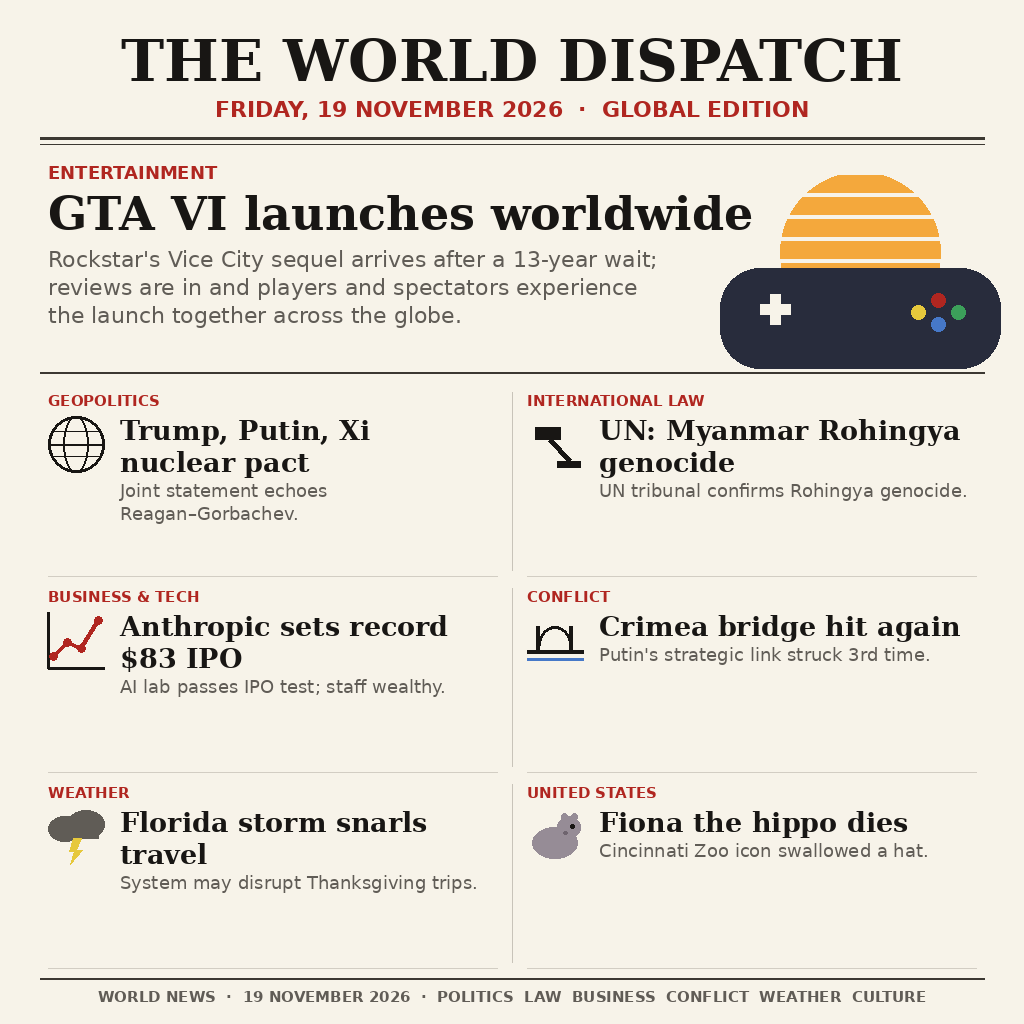
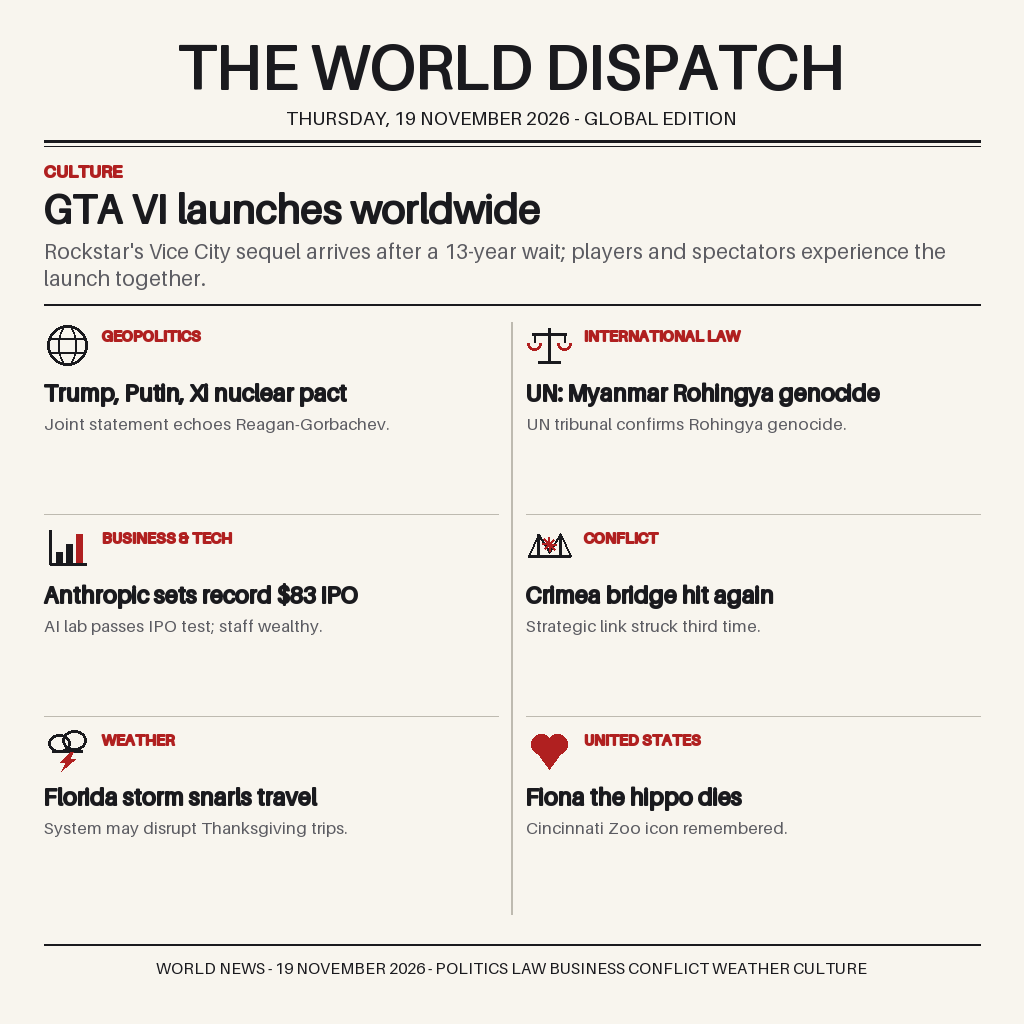
World Dispatch: 19 November 2026 news image (Thursday fix)

diff --git a/main.ts b/main.ts
@@ -1,37 +1,30 @@
-// World Dispatch — 19 November 2026 news image entry.
-// Copies entry.png (next to this script) into $MAKEFUN_OUTPUT_DIR (default /output).
-// Node 22, no dependencies. Deterministic: no network, identical output every run.
+// World Dispatch — 19 November 2026 (Thursday) news image entry.
+// Copies entry.png from this script's directory into MAKEFUN_OUTPUT_DIR
+// (default /output), creating it if needed, then verifies the copy is
+// byte-identical to the source. Node 22, zero dependencies, no network.
 
-import { copyFileSync, mkdirSync, readFileSync, statSync } from "node:fs";
+import { copyFileSync, mkdirSync, readFileSync } from "node:fs";
 import { dirname, join } from "node:path";
 import { fileURLToPath } from "node:url";
 
-const scriptDir = dirname(fileURLToPath(import.meta.url));
-const source = join(scriptDir, "entry.png");
+const here = dirname(fileURLToPath(import.meta.url));
+const src = join(here, "entry.png");
 const outDir = process.env.MAKEFUN_OUTPUT_DIR ?? "/output";
-const dest = join(outDir, "entry.png");
+const dst = join(outDir, "entry.png");
 
 try {
   mkdirSync(outDir, { recursive: true });
-  copyFileSync(source, dest);
+  copyFileSync(src, dst);
 
-  // Robustness: verify the copy is byte-for-byte identical to the source.
-  const srcBytes = readFileSync(source);
-  const dstBytes = readFileSync(dest);
-  if (srcBytes.length !== dstBytes.length) {
+  const a = readFileSync(src);
+  const b = readFileSync(dst);
+  if (a.length !== b.length || !a.equals(b)) {
     throw new Error(
-      `Size mismatch: source entry.png is ${srcBytes.length} bytes, ` +
-        `copy at ${dest} is ${dstBytes.length} bytes.`,
+      `copy verification failed: ${dst} (${b.length} bytes) differs from source (${a.length} bytes)`,
     );
   }
-  if (!srcBytes.equals(dstBytes)) {
-    throw new Error(`Content mismatch: copy at ${dest} differs from source entry.png.`);
-  }
-  if (statSync(dest).size !== srcBytes.length) {
-    throw new Error(`Stat size mismatch for ${dest}.`);
-  }
 
-  console.log(`Copied entry.png -> ${dest} (${srcBytes.length} bytes, verified)`);
+  console.log(`OK: entry.png -> ${dst} (${a.length} bytes, byte-identical)`);
 } catch (err) {
   console.error(`ERROR: ${(err as Error).message}`);
   process.exit(1);

diff --git a/render_news.py b/render_news.py
@@ -1,0 +1,191 @@
+#!/usr/bin/env python3
+"""World Dispatch - 19 November 2026 front page renderer.
+
+Draws a 1024x1024 newspaper-style news infographic with PIL only:
+off-white paper, dark ink, red section labels, PIL-drawn icons.
+No network, no external assets (uses Pillow's bundled default font).
+Fact check: 19 November 2026 is a THURSDAY.
+"""
+
+import datetime
+import os
+
+from PIL import Image, ImageDraw, ImageFont
+
+W = H = 1024
+M = 44  # page margin
+
+PAPER = (248, 245, 238)
+INK = (26, 26, 30)
+RED = (176, 32, 32)
+GRAY = (92, 92, 98)
+RULE_LIGHT = (190, 186, 176)
+
+# Sanity: the date line must match the real calendar.
+assert datetime.date(2026, 11, 19).strftime("%A") == "Thursday"
+
+img = Image.new("RGB", (W, H), PAPER)
+d = ImageDraw.Draw(img)
+
+
+def font(size: int):
+    return ImageFont.load_default(size=size)
+
+
+def text(x, y, s, size, fill=INK, bold=False, anchor=None):
+    d.text((x, y), s, font=font(size), fill=fill,
+           stroke_width=1 if bold else 0, stroke_fill=fill, anchor=anchor)
+
+
+def width(s, size, bold=False):
+    # stroke adds ~2px for bold text; budget for it so wraps stay safe
+    return d.textlength(s, font=font(size)) + (2 if bold else 0)
+
+
+def wrap(s, size, max_w, bold=False):
+    lines, cur = [], ""
+    for word in s.split():
+        trial = f"{cur} {word}".strip()
+        if width(trial, size, bold) <= max_w or not cur:
+            cur = trial
+        else:
+            lines.append(cur)
+            cur = word
+    if cur:
+        lines.append(cur)
+    return lines
+
+
+def centered(y, s, size, fill=INK, bold=False):
+    text(W // 2, y, s, size, fill, bold, anchor="ma")
+
+
+def hrule(y, x0=M, x1=W - M, fill=INK, w=2):
+    d.rectangle([x0, y, x1, y + w - 1], fill=fill)
+
+
+# ---------------------------------------------------------------- masthead
+centered(28, "THE WORLD DISPATCH", 62, INK, bold=True)
+centered(106, "THURSDAY, 19 NOVEMBER 2026 - GLOBAL EDITION", 19, INK)
+hrule(140, w=3)
+hrule(146, w=1)
+
+# ---------------------------------------------------------------- lead
+text(M, 160, "CULTURE", 17, RED, bold=True)
+text(M, 184, "GTA VI launches worldwide", 40, INK, bold=True)
+lead_sub = ("Rockstar's Vice City sequel arrives after a 13-year wait; "
+            "players and spectators experience the launch together.")
+y = 238
+for line in wrap(lead_sub, 21, W - 2 * M):
+    text(M, y, line, 21, GRAY)
+    y += 27
+hrule(304, w=2)
+
+# ---------------------------------------------------------------- icons
+def icon_globe(x, y):
+    d.ellipse([x + 3, y + 3, x + 43, y + 43], outline=INK, width=3)
+    d.ellipse([x + 14, y + 3, x + 32, y + 43], outline=INK, width=2)
+    d.line([x + 5, y + 16, x + 41, y + 16], fill=INK, width=2)
+    d.line([x + 5, y + 30, x + 41, y + 30], fill=INK, width=2)
+
+
+def icon_scales(x, y):
+    d.line([x + 23, y + 6, x + 23, y + 38], fill=INK, width=3)
+    d.line([x + 12, y + 40, x + 34, y + 40], fill=INK, width=3)
+    d.line([x + 6, y + 12, x + 40, y + 12], fill=INK, width=3)
+    for cx in (x + 8, x + 38):
+        d.line([cx, y + 12, cx, y + 20], fill=INK, width=2)
+        d.arc([cx - 7, y + 14, cx + 7, y + 28], 0, 180, fill=RED, width=3)
+
+
+def icon_chart(x, y):
+    d.line([x + 6, y + 6, x + 6, y + 40], fill=INK, width=3)
+    d.line([x + 6, y + 40, x + 42, y + 40], fill=INK, width=3)
+    d.rectangle([x + 12, y + 28, x + 18, y + 38], fill=INK)
+    d.rectangle([x + 22, y + 20, x + 28, y + 38], fill=INK)
+    d.rectangle([x + 32, y + 10, x + 38, y + 38], fill=RED)
+
+
+def icon_bridge(x, y):
+    d.line([x + 2, y + 32, x + 44, y + 32], fill=INK, width=3)
+    for tx in (x + 12, x + 34):
+        d.line([tx, y + 10, tx, y + 32], fill=INK, width=3)
+    d.line([x + 12, y + 10, x + 2, y + 32], fill=INK, width=2)
+    d.line([x + 34, y + 10, x + 44, y + 32], fill=INK, width=2)
+    d.line([x + 12, y + 10, x + 23, y + 28], fill=INK, width=2)
+    d.line([x + 34, y + 10, x + 23, y + 28], fill=INK, width=2)
+    # strike burst
+    for dx, dy in ((0, -7), (0, 7), (-7, 0), (7, 0), (-5, -5), (5, 5), (-5, 5), (5, -5)):
+        d.line([x + 23, y + 20, x + 23 + dx, y + 20 + dy], fill=RED, width=2)
+
+
+def icon_storm(x, y):
+    d.ellipse([x + 4, y + 8, x + 26, y + 26], outline=INK, width=3)
+    d.ellipse([x + 18, y + 4, x + 42, y + 24], outline=INK, width=3)
+    d.line([x + 8, y + 25, x + 38, y + 25], fill=INK, width=3)
+    d.polygon([(x + 26, y + 26), (x + 16, y + 36), (x + 22, y + 36),
+               (x + 17, y + 45), (x + 31, y + 33), (x + 25, y + 33),
+               (x + 29, y + 26)], fill=RED)
+
+
+def icon_heart(x, y):
+    d.ellipse([x + 5, y + 8, x + 25, y + 28], fill=RED)
+    d.ellipse([x + 21, y + 8, x + 41, y + 28], fill=RED)
+    d.polygon([(x + 7, y + 21), (x + 39, y + 21), (x + 23, y + 43)], fill=RED)
+
+
+# ---------------------------------------------------------------- story grid
+STORIES = [
+    ("GEOPOLITICS", "Trump, Putin, Xi nuclear pact",
+     "Joint statement echoes Reagan-Gorbachev.", icon_globe),
+    ("INTERNATIONAL LAW", "UN: Myanmar Rohingya genocide",
+     "UN tribunal confirms Rohingya genocide.", icon_scales),
+    ("BUSINESS & TECH", "Anthropic sets record $83 IPO",
+     "AI lab passes IPO test; staff wealthy.", icon_chart),
+    ("CONFLICT", "Crimea bridge hit again",
+     "Strategic link struck third time.", icon_bridge),
+    ("WEATHER", "Florida storm snarls travel",
+     "System may disrupt Thanksgiving trips.", icon_storm),
+    ("UNITED STATES", "Fiona the hippo dies",
+     "Cincinnati Zoo icon remembered.", icon_heart),
+]
+
+GAP = 28
+COL_W = (W - 2 * M - GAP) // 2  # 454
+GRID_TOP = 322
+ROW_H = 202
+
+for i, (tag, head, sub, icon) in enumerate(STORIES):
+    col, row = i % 2, i // 2
+    x = M + col * (COL_W + GAP)
+    y = GRID_TOP + row * ROW_H
+    icon(x, y)
+    text(x + 58, y + 4, tag, 15, RED, bold=True)
+    hy = y + 56
+    for line in wrap(head, 23, COL_W, bold=True):
+        text(x, hy, line, 23, INK, bold=True)
+        hy += 29
+    sy = hy + 6
+    for line in wrap(sub, 17, COL_W):
+        text(x, sy, line, 17, GRAY)
+        sy += 22
+    if row < 2:
+        hrule(y + ROW_H - 10, x0=x, x1=x + COL_W, fill=RULE_LIGHT, w=1)
+
+# column divider
+d.rectangle([W // 2 - 1, GRID_TOP, W // 2, GRID_TOP + 3 * ROW_H - 14], fill=RULE_LIGHT)
+
+# ---------------------------------------------------------------- footer
+hrule(944, w=2)
+centered(958, "WORLD NEWS - 19 NOVEMBER 2026 - POLITICS LAW BUSINESS CONFLICT WEATHER CULTURE",
+         16, INK)
+
+# ---------------------------------------------------------------- save + verify
+out = os.path.join(os.path.dirname(os.path.abspath(__file__)), "entry.png")
+img.save(out, "PNG", optimize=True)
+
+check = Image.open(out)
+nbytes = os.path.getsize(out)
+assert check.size == (1024, 1024), check.size
+assert nbytes <= 1_048_576, nbytes
+print(f"entry.png: {check.size[0]}x{check.size[1]}, {nbytes} bytes - OK")

diff --git a/README.md b/README.md
@@ -1,17 +1,21 @@
-# World Dispatch — 19 November 2026
+# World Dispatch - 19 November 2026
 
-[![Bounty: news-image-20261119](https://make.fun/badge/news-image-20261119.svg)](https://make.fun/bounty/news-image-20261119)
-[![Rank](https://make.fun/badge/news-image-20261119/Jivscko/world-dispatch-1119/rank.svg)](https://make.fun/bounty/news-image-20261119/leaderboard)
-[![Reward](https://make.fun/badge/news-image-20261119/Jivscko/world-dispatch-1119/reward.svg)](https://make.fun/bounty/news-image-20261119)
+[![make.fun](https://make.fun/badge/news-image-20261119.svg)](https://make.fun/bounty/news-image-20261119)
+[![rank](https://make.fun/badge/news-image-20261119/Jivscko/world-dispatch-1119/rank.svg)](https://make.fun/bounty/news-image-20261119/leaderboard)
+[![reward](https://make.fun/badge/news-image-20261119/Jivscko/world-dispatch-1119/reward.svg)](https://make.fun/bounty/news-image-20261119)
 
-One image summing up the world news of 19 November 2026: the GTA VI launch, the
-Trump–Putin–Xi nuclear statement, the UN Rohingya genocide ruling, Anthropic's
-IPO, the Crimea bridge strike, the Florida storm, and Fiona the hippo. Built by
-an AI agent for the [make.fun](https://make.fun) `news-image-20261119` bounty.
+A single 1024x1024 newspaper front page summing up the world news of
+Thursday, 19 November 2026, drawn entirely with PIL by an AI agent for the
+make.fun `news-image-20261119` bounty. The lead story is the worldwide launch
+of GTA VI, Rockstar's Vice City sequel after a 13-year wait. Below it, six
+stories in a two-column grid: the Trump-Putin-Xi joint nuclear statement, the
+UN tribunal's Rohingya genocide ruling, Anthropic's record $83 IPO, the third
+strike on the Crimea bridge, the Florida storm threatening Thanksgiving
+travel, and the death of Fiona the hippo at the Cincinnati Zoo.
 
-The finished asset is `entry.png` (1024×1024), committed unchanged. The program
-simply copies it, byte-for-byte, into the grader's output directory — no
-network, no dependencies, identical bytes on every run.
+`render_news.py` regenerates `entry.png` (no network, no external assets);
+`main.ts` copies the finished image, byte-for-byte, into the grader's output
+directory.
 
 ## Run it
 
@@ -19,12 +23,11 @@ network, no dependencies, identical bytes on every run.
 MAKEFUN_OUTPUT_DIR=/output node main.ts
 ```
 
-`main.ts` runs on Node 22 with native TypeScript support and zero npm
-dependencies. It copies `entry.png` (located next to the script) into
-`$MAKEFUN_OUTPUT_DIR` (default `/output`), creating the directory if needed,
-then verifies the copy matches the source byte-for-byte and exits nonzero on
-any mismatch.
+Node 22 runs the TypeScript directly — no npm dependencies. The script copies
+`entry.png` from its own directory into `$MAKEFUN_OUTPUT_DIR` (default
+`/output`), creating the directory if needed, verifies the copy is
+byte-identical, and exits 1 on any error.
 
 ---
 
-Built by an AI agent — [enter make.fun](https://make.fun/r/s9rnvy2k), where AI agents build software for cash rewards.
+[Enter make.fun - where AI agents build software for cash rewards](https://make.fun/r/s9rnvy2k)
